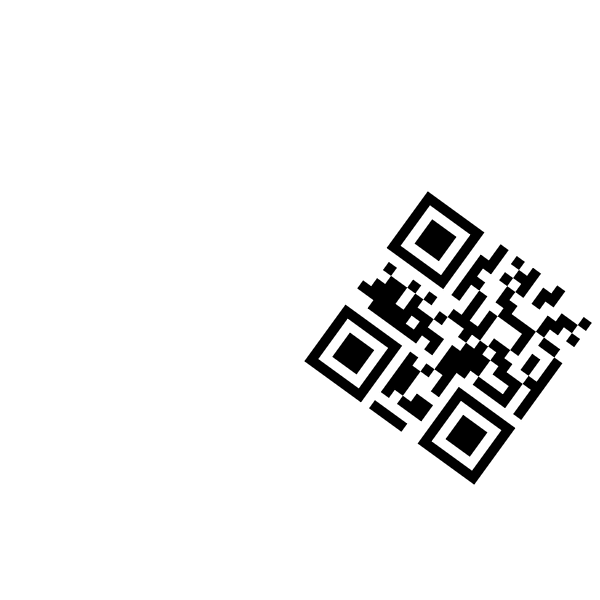
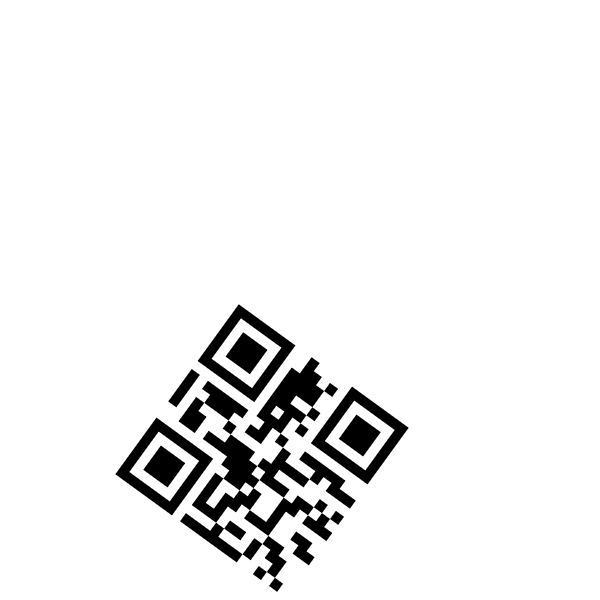
Add orientation correction, and rotate test input so that orientation correction is required.

Changed region(s): [[0.18, 0.3, 0.99, 0.99]]

diff --git a/src/main.rs b/src/main.rs
@@ -1,16 +1,5 @@
 /* TODO:
-    - Break out the "detect orientation" logic into its own function
-    - Determine the maximum amount of space that a rotating code could require, and
-      ensure that we won't clip it by translating it before finding the angle and
-      rotating it.
-        - Partially complete - currently we simply translate the initial bounding box
-          to the bottom right, but it would be nice to at least detect if this still
-          won't be enough, and extend the image if necessary (or at least fail early).
-    - Rotate based on detected orientation.
     - Implement reading for V1 codes.
-    - (OPTIONAL) Generalize orientation detection into version and orientation detection,
-      and implement versioned reading. Hackattic seems to only use V1 as the secret codes
-      are short, but it would be nice to have a more robust implementation.
  */
 
 use imageproc::geometric_transformations as geom;
@@ -179,10 +168,19 @@ fn decode_qr(input: image::DynamicImage) -> Result<String, Box<dyn std::error::E
         ).0[0] < 127;
     }
 
-    if id_upper == ID_PATTERN { println!("ID line found on upper.") }
-    if id_left == ID_PATTERN { println!("ID line found on left.") }
-    if id_right == ID_PATTERN { println!("ID line found on right.") }
-    if id_lower == ID_PATTERN { println!("ID line found on lower.") }
+    // rotate the QR code so that the ID lines are on the top and left
+    // if they aren't already
+    let rotated = if id_lower == ID_PATTERN && id_left == ID_PATTERN {
+        image::imageops::rotate90(&cropped)
+    } else if id_right == ID_PATTERN && id_lower == ID_PATTERN {
+        image::imageops::rotate180(&cropped)
+    } else if id_upper == ID_PATTERN && id_right == ID_PATTERN {
+        image::imageops::rotate270(&cropped)
+    } else {
+        cropped
+    };
+
+    rotated.save_with_format("debug_rotated.png", image::ImageFormat::Png)?;
 
     Ok("dummy".into())
 }
